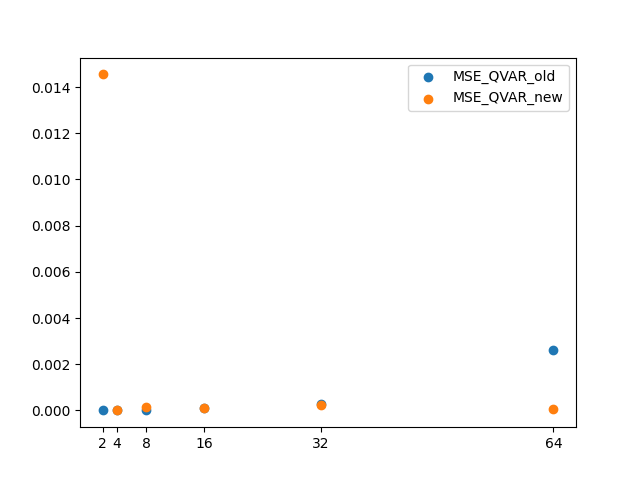
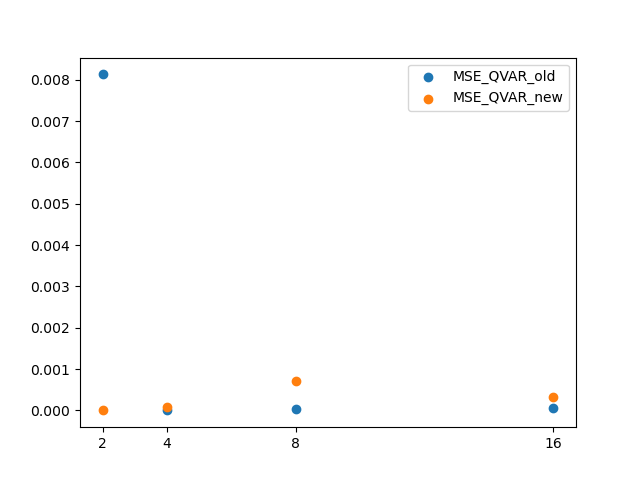
density matrix

diff --git a/test.py b/test.py
@@ -4,6 +4,7 @@ from qiskit import QuantumCircuit, QuantumRegister
 from qiskit.providers.fake_provider import *
 from qiskit_aer.noise import NoiseModel
 from qiskit_aer import AerSimulator
+from qiskit.quantum_info import Statevector, state_fidelity, DensityMatrix
 from qiskit.transpiler import CouplingMap
 from qvar import QVAR, QVAR_old
 import matplotlib.pyplot as plt
@@ -78,8 +79,9 @@ def test_ffqram(N):
 
 def test_noise():
 
-    N_list = [2,4,8,16,32,64]
-    trial = 10
+    N_list = [2,4,8,16]
+    trial = 5
+    seeds = 10
 
     mae_qold = []
     mae_qnew = []
@@ -93,32 +95,37 @@ def test_noise():
         q_new = []
         
         n = math.ceil(math.log2(N))
-        backend = GenericBackendV2(3*n + 2)
-        #print("Classical - QVAR_old - QVAR_new")
+        
         for i in range(trial):
             np.random.seed(123*i)
             vector = np.random.uniform(-1,1, N)
-            
-        
-            r = QuantumRegister(1, 'r') 
-            i = QuantumRegister(n, 'i')  
-        
-            U = QuantumCircuit(i, r)
-            
-            U.h(i)
-            
-            for index, val in zip(range(len(vector)), vector):
-                _register_switcher(U, index, i)
-                U.mcry(np.arcsin(val)*2, i[0:], r) 
-                _register_switcher(U, index, i)
-                       
-            q_var_old = QVAR_old(U, var_index=list(range(n)), ps_index=[U.num_qubits-1], version='STATEVECTOR', n_h_gates=n, backend=backend)
-            q_var_new = QVAR(U, var_index=list(range(n)), ps_index=[U.num_qubits-1], version='STATEVECTOR', n_h_gates=n, backend=backend)
             classical = np.var(vector)
-            #print(str(classical)+ " - " + str(q_var_old) + " - " + str(q_var_new))
-            q_old.append(q_var_old)
-            q_new.append(q_var_new)
             cl.append(classical)
+            
+            q_old_seed = []
+            q_new_seed = []
+            for s in range(seeds):
+
+                r = QuantumRegister(1, 'r') 
+                i = QuantumRegister(n, 'i')  
+            
+                U = QuantumCircuit(i, r)
+                
+                U.h(i)
+                
+                for index, val in zip(range(len(vector)), vector):
+                    _register_switcher(U, index, i)
+                    U.mcry(np.arcsin(val)*2, i[0:], r) 
+                    _register_switcher(U, index, i)
+
+                q_var_old = QVAR_old(U, var_index=list(range(n)), ps_index=[U.num_qubits-1], version='STATEVECTOR', n_h_gates=n, backend=GenericBackendV2(3*n+2, noise_info=True, seed=s*123))
+                q_var_new = QVAR(U, var_index=list(range(n)), ps_index=[U.num_qubits-1], version='STATEVECTOR', n_h_gates=n, backend=GenericBackendV2(2*n+2, noise_info=True, seed=s*123))
+                
+                q_old_seed.append(q_var_old)
+                q_new_seed.append(q_var_new)
+                
+            q_old.append(np.mean(q_old_seed))
+            q_new.append(np.mean(q_new_seed))
 
         mae_old = np.mean([abs(x-y) for x,y in zip(q_old, cl)])
         mae_new = np.mean([abs(x-y) for x,y in zip(q_new, cl)])
@@ -146,6 +153,77 @@ def test_noise():
     plt.legend()
     plt.savefig("MSE.png")
 
+def test_noise_density_matrix():
+
+    N_list = [16]
+    trial = 1
+    seeds = 1
+
+    mean_trials_old = []
+    mean_trials_new = []
+
+    for N in N_list:
+        print("N = " + str(N))
+        cl = []
+        q_old = []
+        q_new = []
+        
+        n = math.ceil(math.log2(N))
+        
+        for i in range(trial):
+            np.random.seed(123*i)
+            vector = np.random.uniform(-1,1, N)
+            classical = np.var(vector)
+            cl.append(classical)
+            
+            q_old_seed = []
+            q_new_seed = []
+            for s in range(seeds):
+
+                r = QuantumRegister(1, 'r') 
+                i = QuantumRegister(n, 'i')  
+            
+                U = QuantumCircuit(i, r)
+                
+                U.h(i)
+                
+                for index, val in zip(range(len(vector)), vector):
+                    _register_switcher(U, index, i)
+                    U.mcry(np.arcsin(val)*2, i[0:], r) 
+                    _register_switcher(U, index, i)
+
+                sv_old = QVAR_old(U, var_index=list(range(n)), ps_index=[U.num_qubits-1], version='STATEVECTOR', n_h_gates=n, backend=GenericBackendV2(3*n+2, noise_info=False, seed=s*123))
+                sv_new = QVAR(U, var_index=list(range(n)), ps_index=[U.num_qubits-1], version='STATEVECTOR', n_h_gates=n, backend=GenericBackendV2(2*n+2, noise_info=False, seed=s*123))
+                dm_old = QVAR_old(U, var_index=list(range(n)), ps_index=[U.num_qubits-1], version='STATEVECTOR', n_h_gates=n, backend=GenericBackendV2(3*n+2, noise_info=True, seed=s*123))
+                dm_new = QVAR(U, var_index=list(range(n)), ps_index=[U.num_qubits-1], version='STATEVECTOR', n_h_gates=n, backend=GenericBackendV2(2*n+2, noise_info=True, seed=s*123))
+                
+
+                #print("statevector\n"+str(sv_old))
+                #print("density matrix\n"+str(dm_old))
+                old_fidelity = state_fidelity(sv_old, dm_old)
+                new_fidelity = state_fidelity(sv_new, dm_new)
+
+                print("fidelity old: " + str(old_fidelity))
+                print("fidelity new: " + str(new_fidelity))
+
+                q_old_seed.append(old_fidelity)
+                q_new_seed.append(new_fidelity)
+                
+            q_old.append(np.mean(q_old_seed))
+            q_new.append(np.mean(q_new_seed))
+
+        
+        mean_trials_old.append(np.mean(q_old))
+        mean_trials_new.append(np.mean(q_new))
+        
+
+    plt.scatter(N_list, mean_trials_old, label="Fidelity old")
+    plt.scatter(N_list, mean_trials_new, label="Fidelity new")
+    plt.xticks(N_list)
+    plt.legend()
+    plt.savefig("fidelity.png")
+    
+
 if __name__ == "__main__":
 
     '''
@@ -156,4 +234,4 @@ if __name__ == "__main__":
     test_ffqram(8)
     '''
 
-    test_noise()
+    test_noise_density_matrix()

diff --git a/qvar.py b/qvar.py
@@ -15,6 +15,7 @@ from qiskit_algorithms import AmplitudeEstimation, FasterAmplitudeEstimation
 from qiskit.primitives import Sampler
 
 from qiskit.transpiler import CouplingMap, Layout
+from qiskit.quantum_info import Statevector, state_fidelity, DensityMatrix
 
 # QVAR subroutine for computing the variance of a set of values encoded into a quantum state
 #
@@ -150,16 +151,29 @@ def QVAR_old(U, var_index=None, ps_index=None, version='FAE', delta=0.0001, max_
             objective_qubits=objective_qubits,
         )
 
-        transpiled_circuit = transpile(qc, backend, optimization_level=0, coupling_map=backend.coupling_map, seed_transpiler=123)
-        transpiled_circuit.save_statevector()
-        statevector = np.asarray(backend.run(transpiled_circuit, seed_simulator=123).result().get_statevector())
-        
-        var = 0
-        for i, amplitude in enumerate(statevector):
-            full_state = bin(i)[2:].zfill(qc.num_qubits)[::-1]
-            state = ''.join([full_state[i] for i in objective_qubits])
-            if problem.is_good_state(state[::-1]):
-                var = var + np.abs(amplitude) ** 2
+        if backend._noise_info:
+            #density_matrix = DensityMatrix(qc)
+            
+            transpiled_circuit = transpile(qc, backend)
+            transpiled_circuit.save_density_matrix()
+            density_matrix = np.asarray(backend.run(transpiled_circuit).result().results[0].data.density_matrix)
+            return density_matrix
+        else:
+            #statevector = Statevector(qc)
+            
+            transpiled_circuit = transpile(qc, backend)
+            transpiled_circuit.save_statevector()
+            statevector = np.asarray(backend.run(transpiled_circuit).result().get_statevector())
+            
+            return statevector
+            '''
+            var = 0
+            for i, amplitude in enumerate(statevector):
+                full_state = bin(i)[2:].zfill(qc.num_qubits)[::-1]
+                state = ''.join([full_state[i] for i in objective_qubits])
+                if problem.is_good_state(state[::-1]):
+                    var = var + np.abs(amplitude) ** 2
+            '''
     
     tot_hadamard = 2 + i_qbits + n_h_gates
     norm_factor = 2**tot_hadamard/2**i_qbits
@@ -270,16 +284,22 @@ def QVAR(U, var_index=None, ps_index=None, version='FAE', delta=0.0001, max_iter
             objective_qubits=objective_qubits,
         )
 
-        transpiled_circuit = transpile(qc, backend, optimization_level=0, coupling_map=backend.coupling_map, seed_transpiler=123)
-        transpiled_circuit.save_statevector()
-        statevector = np.asarray(backend.run(transpiled_circuit,seed_simulator=123).result().get_statevector())
+        if backend._noise_info:
+            #density_matrix = DensityMatrix(qc)
+            
+            transpiled_circuit = transpile(qc, backend)
+            transpiled_circuit.save_density_matrix()
+            density_matrix = np.asarray(backend.run(transpiled_circuit).result().results[0].data.density_matrix)
+            return density_matrix
+        else:
+            #statevector = Statevector(qc)
+            
+            transpiled_circuit = transpile(qc, backend)
+            transpiled_circuit.save_statevector()
+            statevector = np.asarray(backend.run(transpiled_circuit).result().get_statevector())
+            
+            return statevector
         
-        var = 0
-        for i, amplitude in enumerate(statevector):
-            full_state = bin(i)[2:].zfill(qc.num_qubits)[::-1]
-            state = ''.join([full_state[i] for i in objective_qubits])
-            if problem.is_good_state(state[::-1]):
-                var = var + np.abs(amplitude) ** 2
     
     tot_hadamard = 2 + n_h_gates
     norm_factor = 2**tot_hadamard/2**i_qbits
